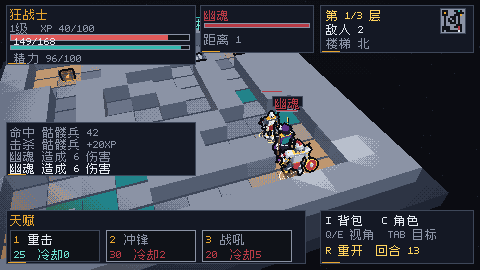
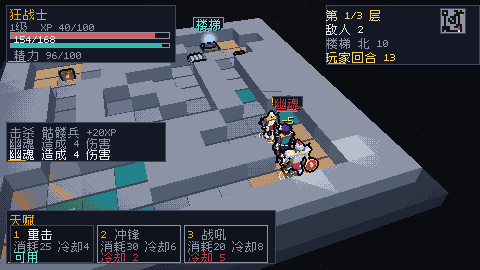
docs: refresh compact HUD shots and AOE-avoidance QA metrics

diff --git a/docs/QA_TOME2.md b/docs/QA_TOME2.md
@@ -144,3 +144,21 @@ zig build test-qa --summary all
 ~~~
 
 不变量失败时，harness 会打印 `[qa2] invariant failed seed=... class=... step=... turn=... floor=...: <错误名>`，可直接定位 seed/职业/动作序号。若通关数为 0，harness 额外打印 `[qa2] WARNING: 0/300 autoplay wins...`（不使测试失败，便于 CI 记录平衡回归）。
+
+---
+
+## 9. 后续平衡更新（AOE 可躲，2026-10-22 晚）
+
+在 PR #17/#18 之后，Boss 深渊斩改为预警格 + 0.9 格半径：预警时锁定英雄当时所在格，玩家走出该格即可躲开；自动策略与 QA bot 都会躲。QA 的 300 局批量在最新 main 上复跑：
+
+| 指标 | 全部 | 狂战士 | 元素法师 | 时空法师 |
+| --- | ---: | ---: | ---: | ---: |
+| 通关率 | **61.0%** (183/300) | 47% | 77% | 59% |
+| 死亡 | 117 | 53 | 23 | 41 |
+| 平均回合 | 78.3 | 87.0 | 69.4 | 78.5 |
+| 平均到达层 | 3.00 | 3.00 | 3.00 | 3.00 |
+| 超时 | 0 | 0 | 0 | 0 |
+
+- 固定 seed 12345 三职业均通关：狂战士第 100 回合剩 66 HP、元素法师第 75 回合剩 61 HP、时空法师第 84 回合剩 69 HP。
+- zig build test：98/98；zig build test-qa：74/74；0 不变量违规。
+- 旧第 6.1/6.2 节保留为“AOE 不可躲”时期的历史基线；本节取代其通关率结论。README 已同步。
